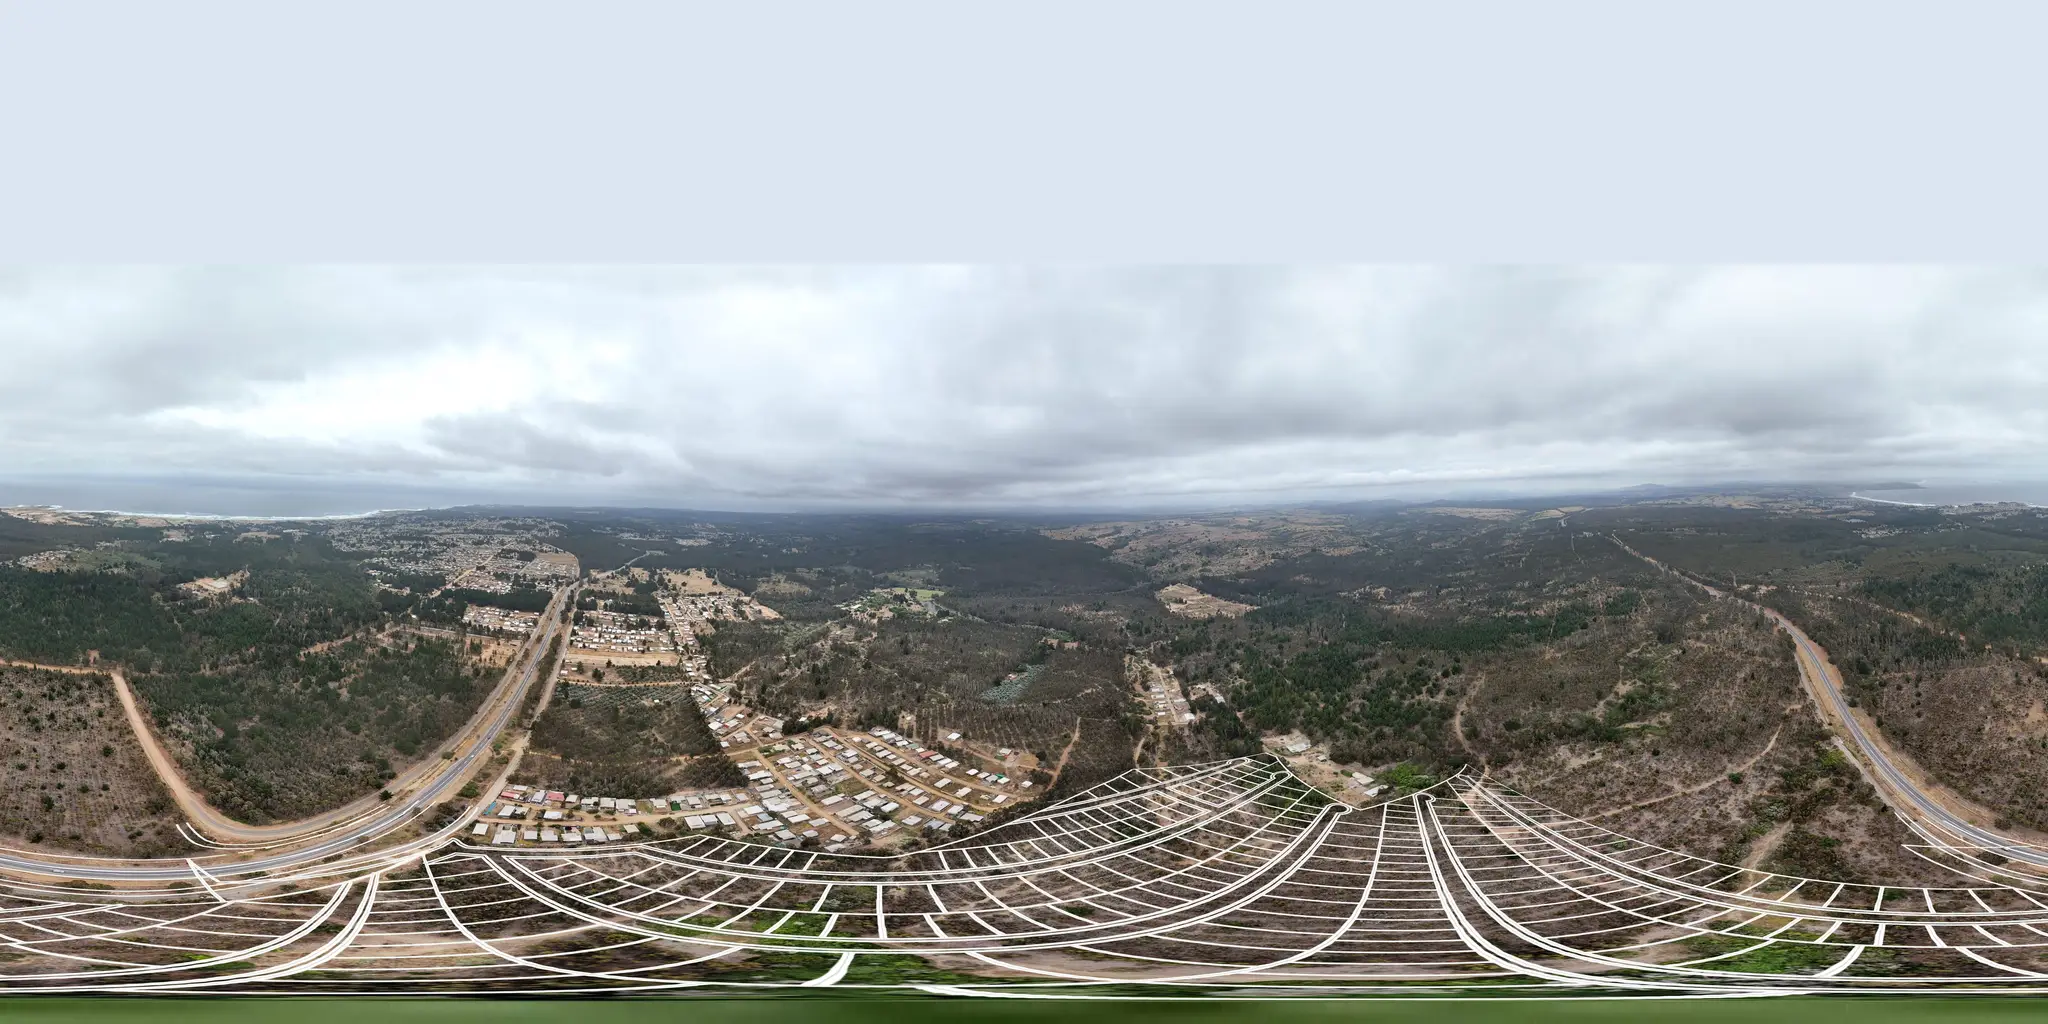
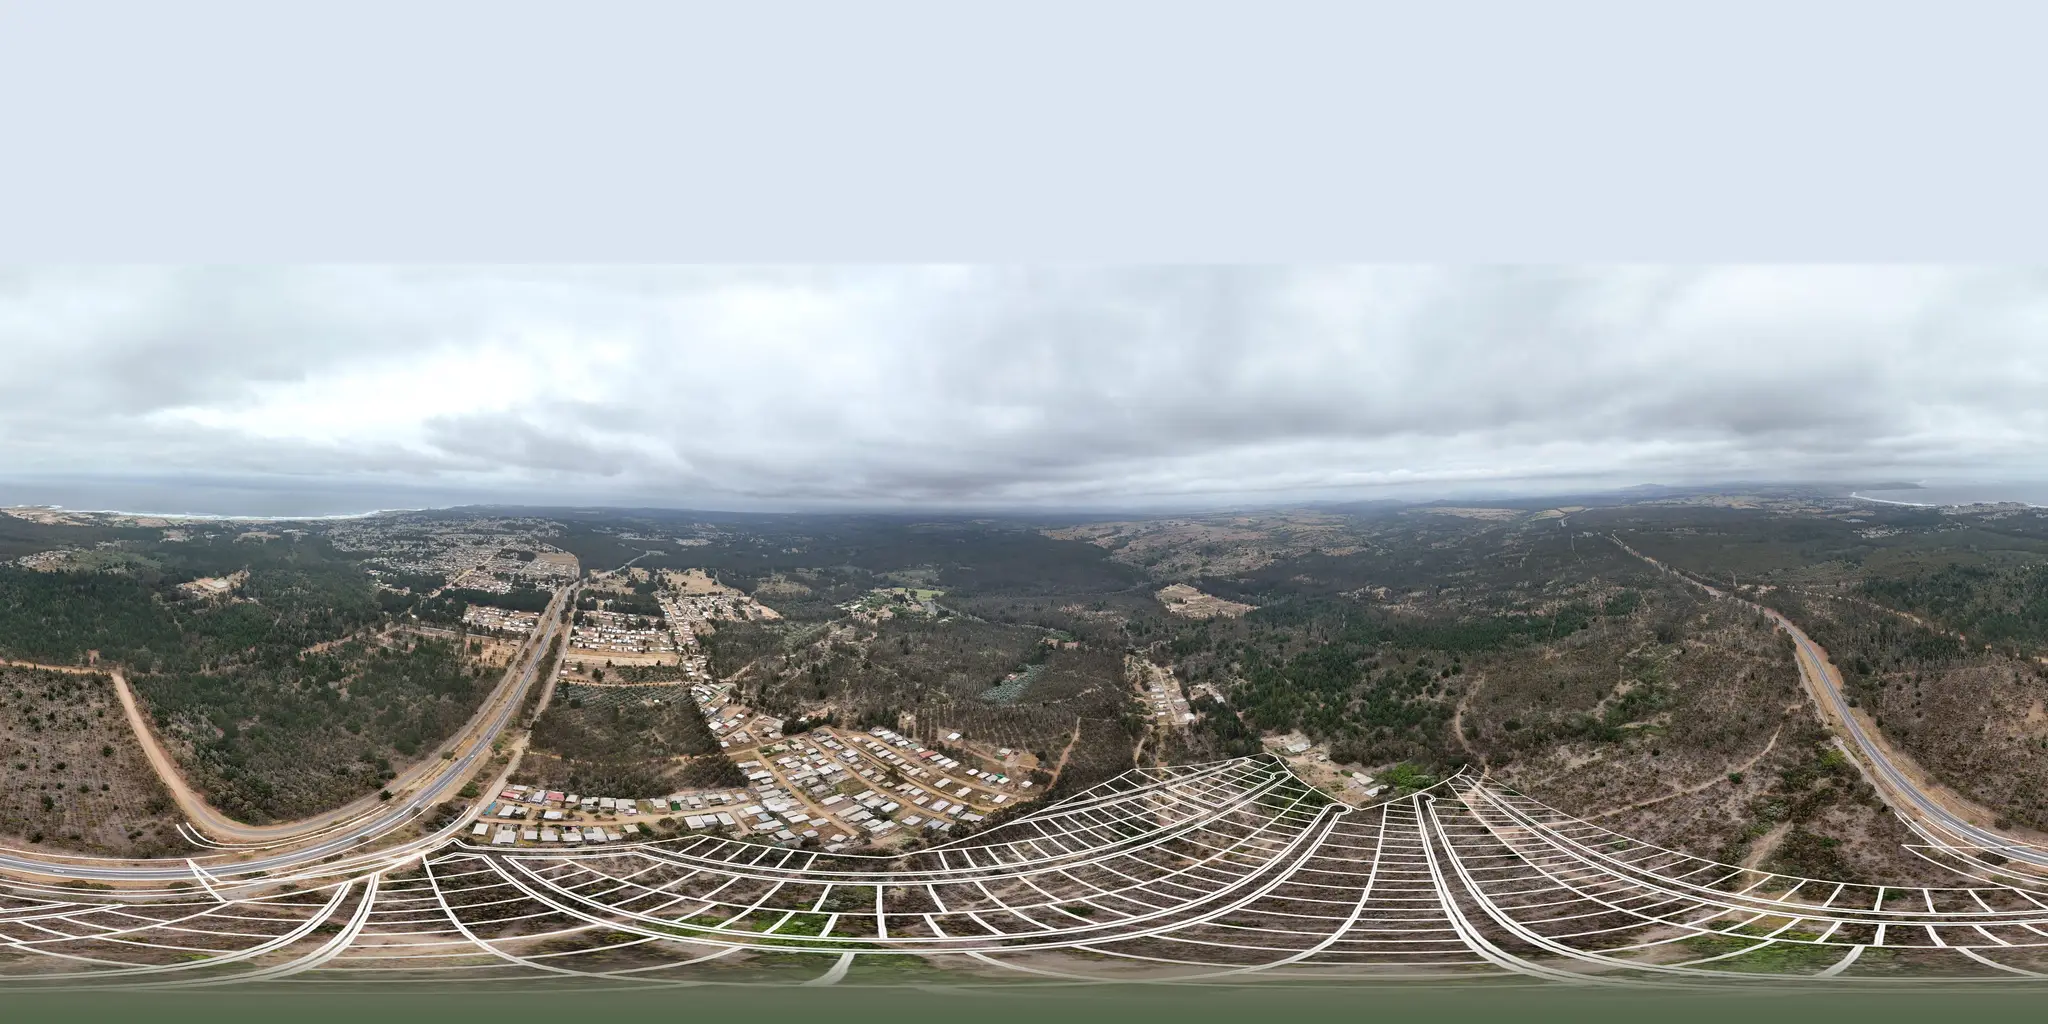
feat(mapa-3d): el suelo es solo la vista de dron y el centro deja de deformarse
Se dan de baja la ortofoto del vuelo y el relleno satelital de Esri: el mapa
queda con la panoramica del dron como unico suelo. Se ahorran varias decenas
de peticiones a Esri y medio mega por carga, y se va la fila de chips de capa.

El disco del centro venia de la propia proyeccion: en una equirectangular
todas las direcciones convergen en la fila de abajo, asi que al proyectarla
cualquier dibujo con estructura se abre en rayos desde el punto bajo el dron.
Color liso dejaba una mancha, espejar una roseta, estirar estrias y repetir un
trozo de vegetacion una estrella de 256 rayos.

Lo unico que no se deforma al converger es lo que ya es constante a lo largo
de la fila, asi que la franja de abajo pasa a ser el promedio de cada fila,
suavizado a lo alto para que los saltos entre filas no salgan dibujados como
una diana, y entrando de a poco desde la foto real.

Queda un velo del color del suelo, sin figura ni borde. No se puede hacer
mejor: el vuelo no fotografio esa zona y no hay dato que poner ahi.

Changed region(s): [[0.0, 0.9062, 1.0, 1.0]]

diff --git a/scripts/importar-plano-panoramica.js b/scripts/importar-plano-panoramica.js
@@ -103,29 +103,80 @@ async function main() {
     const cielo = { r: tono[0], g: tono[1], b: tono[2] }
     console.log(`Relleno de cielo: rgb(${cielo.r},${cielo.g},${cielo.b})`)
 
-    /* Abajo NO puede ir color liso. Esas filas son el nadir y al proyectarlas
-       sobre el terreno se abren en un disco de decenas de metros justo bajo el
-       dron: un tono plano se ve como una mancha en medio del mapa, y espejar
-       las ultimas filas deja una roseta, que se nota igual.
-
-       Se estiran las ultimas filas reales hacia abajo. En el mapa eso se
-       proyecta como estrias radiales que convergen en el centro, que es
-       justo lo que hace una panoramica de verdad cerca del nadir: continua
-       en vez de dibujar una figura. */
-    const espejo = await sharp(cuerpo)
-        .extract({ left: 0, top: mc.height - 2, width: mc.width, height: 2 })
-        .resize({ width: mc.width, height: abajo, fit: 'fill' })
-        .toBuffer()
-
     /* Dos pasadas y no dos extend encadenados: sharp no los acumula, el
        segundo reemplaza al primero y la imagen sale con un solo relleno. */
     const conCielo = await sharp(cuerpo)
         .extend({ top: arriba, background: cielo })
         .toBuffer()
-    const completa = await sharp(conCielo)
+    const plana = await sharp(conCielo)
         .extend({ bottom: abajo, background: cielo })
-        .composite([{ input: espejo, top: arriba + mc.height, left: 0 }])
         .toBuffer()
+
+    /* El nadir es la zona que el vuelo no alcanza, y ademas las ultimas filas
+       que si trae la foto vienen degradadas del stitch.
+
+       En una equirectangular todas las direcciones convergen en la fila de
+       abajo, asi que al proyectarla cualquier dibujo con estructura se abre en
+       rayos desde el punto bajo el dron. Probado: color liso deja una mancha,
+       espejar deja una roseta, estirar deja estrias y repetir un trozo de
+       vegetacion deja una estrella de 256 rayos. El problema no es el dibujo,
+       es la convergencia.
+
+       Lo unico que no se deforma al converger es lo que ya es constante a lo
+       largo de la fila. Asi que la franja de abajo se reemplaza por el promedio
+       de cada fila, entrando de a poco: arriba de la franja manda la foto real
+       y hacia el nadir manda el promedio. Queda un degradado del color del
+       suelo, sin figura. Los deslindes de los lotes siguen viendose porque son
+       geometria 3D, no parte de la foto. */
+    const franja = Math.max(abajo + 24, Math.round(ALTO * 0.09))
+    const cruda = await sharp(plana).raw().toBuffer({ resolveWithObject: true })
+    const px = cruda.data, W = cruda.info.width, C = cruda.info.channels
+    const arranque = ALTO - franja
+    const ultimaReal = arriba + mc.height - 1
+
+    /* Promedio de cada fila de la franja. Las filas del relleno no tienen foto,
+       asi que repiten la ultima que si la tiene. */
+    const medias = []
+    for (let y = arranque; y < ALTO; y++) {
+        const f = Math.min(y, ultimaReal)
+        let r = 0, g = 0, b = 0
+        for (let x = 0; x < W; x++) {
+            const i = (f * W + x) * C
+            r += px[i]; g += px[i + 1]; b += px[i + 2]
+        }
+        medias.push([r / W, g / W, b / W])
+    }
+
+    /* Los promedios crudos saltan de fila en fila, y como cada fila es un
+       anillo alrededor del dron, esos saltos salen dibujados como una diana.
+       Se suavizan con una media movil ancha: el disco queda como un degradado
+       continuo del color del suelo, sin bordes que mirar. */
+    const RADIO = Math.round(franja * 0.35)
+    const suavizadas = medias.map((_, k) => {
+        let r = 0, g = 0, b = 0, n = 0
+        for (let j = k - RADIO; j <= k + RADIO; j++) {
+            const m = medias[Math.min(medias.length - 1, Math.max(0, j))]
+            r += m[0]; g += m[1]; b += m[2]; n++
+        }
+        return [r / n, g / n, b / n]
+    })
+
+    const suave = t => { const u = Math.min(1, Math.max(0, t)); return u * u * (3 - 2 * u) }
+    for (let y = arranque; y < ALTO; y++) {
+        const [pr, pg, pb] = suavizadas[y - arranque]
+        // Peso del promedio: 0 al entrar en la franja, 1 bastante antes del
+        // borde, para que las filas del relleno ya no tengan nada que aportar.
+        const w = suave((y - arranque) / (franja * 0.8))
+        for (let x = 0; x < W; x++) {
+            const i = (y * W + x) * C
+            px[i] = px[i] * (1 - w) + pr * w
+            px[i + 1] = px[i + 1] * (1 - w) + pg * w
+            px[i + 2] = px[i + 2] * (1 - w) + pb * w
+        }
+    }
+    console.log(`Nadir: ${franja} px de franja promediada por fila (${(franja / ALTO * 180).toFixed(1)} grados sobre el nadir)`)
+
+    const completa = await sharp(px, { raw: cruda.info }).png().toBuffer()
 
     const mf = await sharp(completa).metadata()
     if (mf.width !== ANCHO || mf.height !== ALTO) {

diff --git a/src/components/agenda3d/lote3d.js b/src/components/agenda3d/lote3d.js
@@ -114,8 +114,22 @@ class Lote3D extends HTMLElement {
 
     const dem = await this._dem().catch(() => null);
     this.dem = dem;
-    const sat = await this._sat().catch(e => { console.warn('ortofoto', e); return null; });
-    this._terrain(dem, sat);
+    /* El mapa es solo la vista del dron: no se piden los mosaicos de Esri ni
+       se arma la ortofoto. Son varias decenas de peticiones y medio mega que
+       ya no hacen falta. */
+    this._terrain(dem, null);
+    /* La ortofoto y el relleno satelital se dan de baja: el unico suelo es la
+       panoramica del dron. _terrain deja las mallas armadas por compatibilidad,
+       asi que se sacan de la escena y se liberan. */
+    for (const clave of ['ground', 'ortho']) {
+      const malla = this[clave];
+      if (!malla) continue;
+      this.scene.remove(malla);
+      malla.geometry.dispose();
+      malla.material.dispose();
+      this[clave] = null;
+    }
+
     this._mountDrape();
     this._lots();
     this.setLayer(this._calibrado || this.getAttribute('editor') === '1' ? 'dron' : 'foto');
@@ -163,8 +177,7 @@ class Lote3D extends HTMLElement {
           };
         })(),
         relief: dem ? +(dem.max - dem.min).toFixed(1) : 0,
-        source: dem ? dem.source : 'plano',
-        sat: sat ? sat.source : null
+        source: dem ? dem.source : 'plano'
       }
     }));
   }
@@ -546,17 +559,15 @@ class Lote3D extends HTMLElement {
       uv.setXY(i,
         0.5 - t / TAU + yaw / TAU,
         0.5 + Math.asin(Math.max(-1, Math.min(1, (y - dy) / Math.hypot(r, y - dy)))) / Math.PI);
-      /* Bajo el dron la panoramica no tiene informacion: el vuelo no alcanza
-         el nadir y ahi la foto se abre en abanico. Da igual con que se rellene
-         —color liso, espejo, estirado—: siempre queda un disco en medio del
-         mapa. Asi que el manto se abre en esa zona y por debajo asoma la
-         ortofoto, que es la unica imagen real que existe de ese suelo.
+      /* El manto no se abre en ningun lado. Abrirlo en el nadir dejaba ver la
+         ortofoto, con los colores del plano viejo deformandose en el centro
+         del mapa. La zona bajo el dron se cubre con la propia panoramica, que
+         ahi va desenfocada a proposito.
 
-         La transicion es ancha para que no se note el canto del disco.
-         El borde lejano se difumina igual, para que el manto no termine en un
+         El borde lejano si se difumina, para que el manto no termine en un
          corte recto contra el horizonte. */
       const suave = t => { const u = Math.min(1, Math.max(0, t)); return u * u * (3 - 2 * u); };
-      const a = suave((r - 22) / 55) * suave((R1 - r) / (R1 * 0.45));
+      const a = suave((R1 - r) / (R1 * 0.45));
       col.setXYZW(i, 1, 1, 1, a);
     }
     p.needsUpdate = true;

diff --git a/src/components/agenda3d/Agenda3D.tsx b/src/components/agenda3d/Agenda3D.tsx
@@ -27,7 +27,7 @@ import {
     Video,
     X,
 } from 'lucide-react'
-import Lote3DViewer, { Capa, Conteo, Listo, Lot, ViewerHandle, Vuelo } from './Lote3DViewer'
+import Lote3DViewer, { Conteo, Listo, Lot, ViewerHandle, Vuelo } from './Lote3DViewer'
 import EditorLotes from './EditorLotes'
 import { getUtmParams, newEventId } from '@/lib/track'
 import { SITE } from '@/lib/constants'
@@ -89,9 +89,6 @@ export default function Agenda3D() {
     const [fichaAbierta, setFichaAbierta] = useState(false)
     const [ahorroDatos, setAhorroDatos] = useState(false)
     const [stage, setStage] = useState(0)
-    // La capa de entrada la decide el visor: vista del dron solo si el calce
-    // de la panorámica ya está hecho.
-    const [layer, setLayer] = useState<Capa>('foto')
 
     /* Modo de calce: se entra con /agendar-visita?calce=1. Sirve para hacer
        coincidir la panorámica del dron con los lotes una sola vez; el
@@ -226,7 +223,6 @@ export default function Agenda3D() {
         setHandle(handle)
         setViewerReady(true)
         setConteo(detail.conteo)
-        setLayer(detail.layer)
         handle.setNumbers(true)
         // La órbita de presentación es para el visitante; en las herramientas
         // internas estorba.
@@ -269,7 +265,6 @@ export default function Agenda3D() {
     }
 
     const setStageChip = aplicar(setStage, (h, v: number) => h.setFilter({ stage: v }))
-    const setLayerChip = aplicar(setLayer, (h, v: Capa) => h.setLayer(v))
 
     /* ─── envío ─── */
 
@@ -474,19 +469,6 @@ export default function Agenda3D() {
                     </header>
 
                     <div className={styles.chips}>
-                        <div className={styles.chipRow}>
-                            {([['dron', 'Vista del dron'], ['foto', 'Ortofoto'], ['satelite', 'Satelital']] as const).map(
-                                ([k, label]) => (
-                                    <button
-                                        key={k}
-                                        className={layer === k ? styles.chipOn : styles.chip}
-                                        onClick={() => setLayerChip(k)}
-                                    >
-                                        {label}
-                                    </button>
-                                )
-                            )}
-                        </div>
                         <div className={styles.chipRow}>
                             {[0, 1, 2, 3].map(s => (
                                 <button
